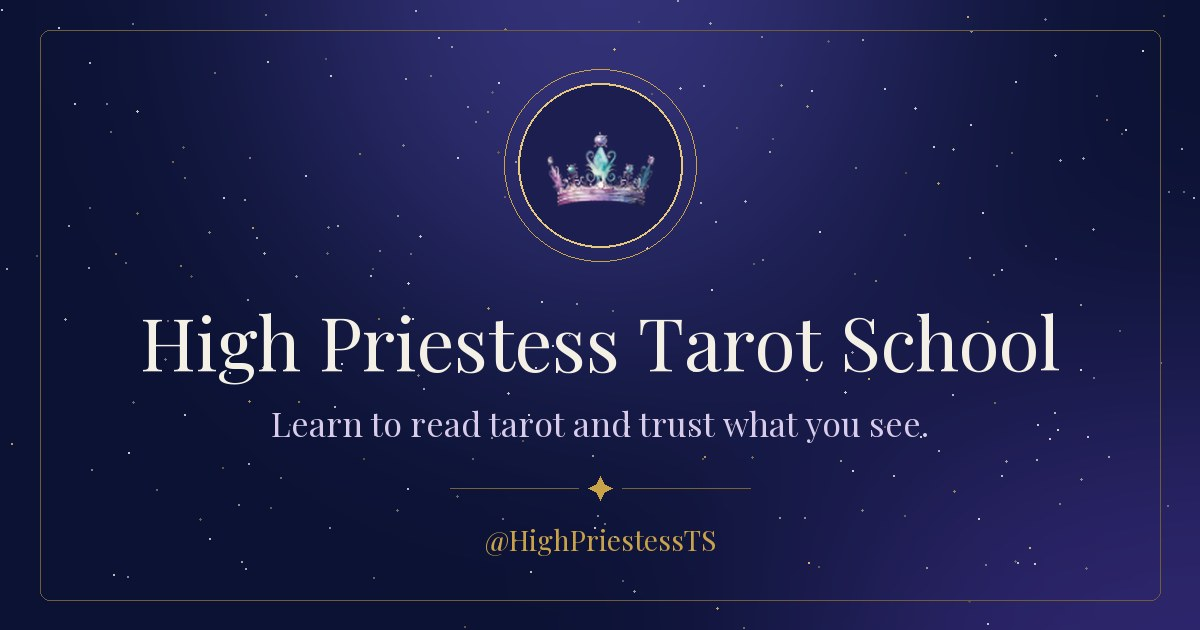
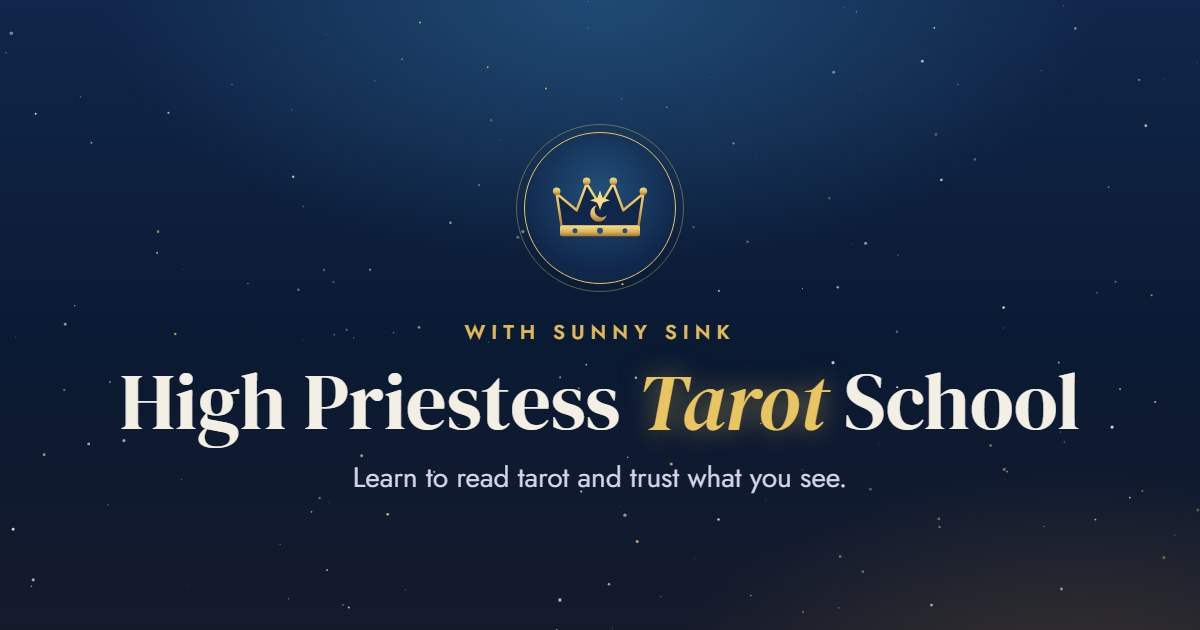
HPTS link-in-bio: reskin to the new HPTS board

Changed region(s): [[0.0925, 0.0905, 1.0, 1.0], [0.0308, 0.0302, 0.9867, 0.1508]]

diff --git a/hpts/index.html b/hpts/index.html
@@ -5,7 +5,7 @@
 <meta name="viewport" content="width=device-width, initial-scale=1, viewport-fit=cover">
 <title>High Priestess Tarot School</title>
 <meta name="description" content="High Priestess Tarot School links: join the school, the free Tarot Card of the Day, the free 2027 Tarot Planner, Power Pairs, the bonus courses and the Etsy shop.">
-<meta name="theme-color" content="#0B1233">
+<meta name="theme-color" content="#0A1A33">
 <meta property="og:type" content="website">
 <meta property="og:site_name" content="High Priestess Tarot School">
 <meta property="og:title" content="High Priestess Tarot School">
@@ -21,16 +21,16 @@
 <meta name="twitter:image" content="https://links.sunnysink.com/hpts/preview.jpg">
 <link rel="preconnect" href="https://fonts.googleapis.com">
 <link rel="preconnect" href="https://fonts.gstatic.com" crossorigin>
-<link rel="stylesheet" href="https://fonts.googleapis.com/css2?family=Cormorant+Garamond:ital,wght@0,500;0,600;1,500;1,600&family=Mulish:wght@400;600&display=swap">
+<link rel="stylesheet" href="https://fonts.googleapis.com/css2?family=DM+Serif+Display:ital@0;1&family=Jost:wght@300;400;500;600&display=swap">
 <style>
-/* Layout: one column under a moonlit arch. Midnight sky, gold hairlines, one parchment card for the main door, italic lilac on the word that matters (HPTS brand board) */
+/* Layout: one column under a moonlit arch. Navy night sky, gold hairlines, one cream card for the main door, one glowing italic honey word (HPTS brand board 2026-10-21) */
 :root{
-  --midnight:#0B1233; --navy:#141A47; --indigo:#2A2160; --violet:#4B2F7A;
-  --cream:#F5F0E6; --parchment:#EADFCC;
-  --lavender:#D9CCEB; --lilac:#A68ED6; --powder:#A9BEDD;
-  --gold:#C9A24A; --gold-lt:#E6C77E; --gold-line:rgba(201,162,74,.42);
-  --display:'Cormorant Garamond',Georgia,'Times New Roman',serif;
-  --body:'Mulish',system-ui,-apple-system,'Segoe UI',sans-serif;
+  --midnight:#0A1A33; --navy:#10264A; --indigo:#22507A; --violet:#22507A;
+  --cream:#F3EFE4; --parchment:#E9E1CF;
+  --lavender:#D6D4E8; --lilac:#E9C462; --powder:#9FB2D3;
+  --gold:#C29443; --gold-lt:#E9C462; --gold-line:rgba(233,196,98,.4);
+  --display:'DM Serif Display','Bodoni Moda',Didot,Georgia,serif;
+  --body:'Jost','Futura',system-ui,-apple-system,'Segoe UI',sans-serif;
   color-scheme:dark;
 }
 *{margin:0;padding:0;box-sizing:border-box}
@@ -42,15 +42,15 @@ body{
   display:flex; flex-direction:column; align-items:center;
   overflow-x:hidden; position:relative;
 }
-/* sky: violet haze high, powder-blue low, vignette */
+/* sky: sea-blue glow high, a little candle-gold low, vignette (HPTS board 2026-10-21) */
 body::before{
   content:''; position:fixed; inset:0; z-index:-2;
   background:
-    radial-gradient(60% 34% at 50% 10%, rgba(166,142,214,.20), transparent 70%),
-    radial-gradient(70% 50% at 90% 100%, rgba(75,47,122,.55), transparent 70%),
-    radial-gradient(55% 40% at 5% 92%, rgba(169,190,221,.12), transparent 72%),
-    radial-gradient(120% 90% at 50% 50%, transparent 55%, rgba(5,8,26,.7) 100%),
-    linear-gradient(180deg,#0E1540 0%,#0B1233 50%,#090E2A 100%);
+    radial-gradient(70% 40% at 50% 6%, rgba(34,80,122,.7), transparent 70%),
+    radial-gradient(70% 50% at 90% 100%, rgba(194,148,67,.16), transparent 70%),
+    radial-gradient(55% 40% at 5% 92%, rgba(34,80,122,.35), transparent 72%),
+    radial-gradient(120% 90% at 50% 50%, transparent 55%, rgba(4,12,26,.7) 100%),
+    linear-gradient(180deg,#10264A 0%,#0A1A33 50%,#151A2B 100%);
 }
 #stars{position:fixed; inset:0; z-index:-1; width:100%; height:100%; pointer-events:none}
 
@@ -59,12 +59,12 @@ body::before{
   position:fixed; z-index:0; pointer-events:none;
   left:50%; top:max(14px, env(safe-area-inset-top)); bottom:14px;
   width:min(calc(100% - 28px), 500px); transform:translateX(-50%);
-  border:1px solid rgba(201,162,74,.28);
+  border:1px solid rgba(233,196,98,.26);
   border-radius:250px 250px 6px 6px;
 }
 .arch::after{
   content:''; position:absolute; inset:6px;
-  border:1px solid rgba(201,162,74,.13);
+  border:1px solid rgba(233,196,98,.12);
   border-radius:244px 244px 3px 3px;
 }
 .moon{
@@ -90,14 +90,14 @@ main{
   width:124px; height:124px; border-radius:50%;
   border:1px solid var(--gold-lt);
   outline:1px solid var(--gold-line); outline-offset:5px;
-  box-shadow:0 10px 34px rgba(5,8,26,.6), 0 0 28px rgba(166,142,214,.18);
+  box-shadow:0 10px 34px rgba(4,12,26,.6), 0 0 28px rgba(233,196,98,.18);
   object-fit:cover; display:block;
 }
 .ph{
   background:radial-gradient(circle at 50% 38%, var(--indigo), var(--navy) 70%);
   display:grid; place-items:center; color:var(--gold-lt);
 }
-.ph .crown{width:84px; height:auto; display:block; margin-top:4px; filter:drop-shadow(0 0 12px rgba(166,142,214,.45)) drop-shadow(0 2px 4px rgba(5,8,26,.5))}
+.ph .crown{width:84px; height:auto; display:block; margin-top:4px; filter:drop-shadow(0 0 12px rgba(233,196,98,.35)) drop-shadow(0 2px 4px rgba(4,12,26,.5))}
 
 .eyebrow{
   margin-top:30px;
@@ -106,11 +106,11 @@ main{
   padding-left:.32em;
 }
 h1{
-  font-family:var(--display); font-weight:500;
-  font-size:clamp(2.3rem,10.5vw,2.9rem); line-height:1.02;
+  font-family:var(--display); font-weight:400;
+  font-size:clamp(2.3rem,10.5vw,2.9rem); line-height:1.06;
   margin-top:10px; color:var(--cream); text-wrap:balance;
 }
-h1 em,.line em{font-style:italic; color:var(--lilac)}
+h1 em,.line em{font-style:italic; color:var(--lilac); text-shadow:0 0 20px rgba(233,196,98,.45)}
 .line{
   font-family:var(--display); font-size:clamp(1.12rem,4.8vw,1.26rem);
   line-height:1.45; color:var(--lavender); margin-top:12px; text-wrap:balance;
@@ -124,21 +124,21 @@ nav{width:100%; margin-top:20px; display:flex; flex-direction:column; gap:14px}
 .card{
   display:flex; align-items:center; justify-content:space-between; gap:14px;
   width:100%; min-height:64px; padding:12px 18px 13px;
-  background:linear-gradient(160deg, rgba(42,33,96,.62), rgba(20,26,71,.78) 65%);
+  background:linear-gradient(160deg, rgba(34,80,122,.5), rgba(16,38,74,.82) 65%);
   border:1px solid var(--gold-line); border-radius:12px;
-  box-shadow:0 14px 30px rgba(5,8,26,.5), inset 0 1px 0 rgba(245,240,230,.06);
+  box-shadow:0 14px 30px rgba(4,12,26,.5), inset 0 1px 0 rgba(245,240,230,.06);
   text-decoration:none; position:relative;
   -webkit-backdrop-filter:blur(3px); backdrop-filter:blur(3px);
   transition:transform .22s ease, border-color .22s ease, box-shadow .22s ease;
 }
 .card .l{display:flex; flex-direction:column; gap:2px; text-align:left; min-width:0}
-.card .t{font-family:var(--display); font-weight:600; font-size:1.26rem; line-height:1.15; color:var(--cream)}
+.card .t{font-family:var(--display); font-weight:400; font-size:1.26rem; line-height:1.15; color:var(--cream)}
 .card .s{font-size:.84rem; line-height:1.4; color:var(--powder)}
 .card .m{flex:none; color:var(--gold); transition:transform .4s ease}
 .card .m svg{width:16px; height:16px; display:block}
 .card:hover,.card:focus-visible{
-  transform:translateY(-2px); border-color:rgba(230,199,126,.85);
-  box-shadow:0 18px 36px rgba(5,8,26,.55), 0 0 24px rgba(166,142,214,.2), inset 0 1px 0 rgba(245,240,230,.09);
+  transform:translateY(-2px); border-color:rgba(233,196,98,.85);
+  box-shadow:0 18px 36px rgba(4,12,26,.55), 0 0 24px rgba(233,196,98,.2), inset 0 1px 0 rgba(245,240,230,.09);
 }
 .card:hover .m,.card:focus-visible .m{transform:rotate(72deg)}
 .card:focus-visible{outline:2px solid var(--gold-lt); outline-offset:3px}
@@ -148,18 +148,18 @@ nav{width:100%; margin-top:20px; display:flex; flex-direction:column; gap:14px}
 .card.main{
   min-height:76px;
   background:
-    radial-gradient(120% 140% at 100% 0%, rgba(217,204,235,.75), transparent 60%),
+    radial-gradient(120% 140% at 100% 0%, rgba(233,196,98,.28), transparent 60%),
     linear-gradient(160deg,var(--cream),var(--parchment));
   border-color:var(--gold);
-  box-shadow:0 14px 34px rgba(5,8,26,.55), 0 0 0 4px rgba(201,162,74,.14);
+  box-shadow:0 14px 34px rgba(4,12,26,.55), 0 0 0 4px rgba(233,196,98,.14);
 }
 .card.main .t{color:var(--midnight); font-size:1.42rem}
 .card.main .t em{font-style:italic; color:var(--violet)}
-.card.main .s{color:#4A4568; font-weight:600}
+.card.main .s{color:#3D4357; font-weight:500}
 .card.main .m{color:var(--violet)}
 .card.main::after{
   content:''; position:absolute; inset:-1px; border-radius:13px; pointer-events:none;
-  box-shadow:0 0 30px rgba(230,199,126,.4); opacity:.4;
+  box-shadow:0 0 30px rgba(233,196,98,.4); opacity:.4;
   animation:glow 5s ease-in-out 1s infinite alternate;
 }
 @keyframes glow{from{opacity:.25}to{opacity:.9}}
@@ -221,7 +221,15 @@ footer{
       <circle cx="97" cy="97" r="86" stroke="currentColor" stroke-width=".5" opacity=".6"/>
       <path d="M97 0l2 7-2 4-2-4z M97 194l2-7-2-4-2 4z M0 97l7 2 4-2-4-2z M194 97l-7 2-4-2 4-2z" fill="currentColor"/>
     </svg>
[1 lines of base64/hex data omitted]
+    <div class="ph"><svg class="crown" viewBox="0 0 120 86" aria-label="High Priestess Tarot School crown" role="img">
+      <defs><linearGradient id="g" x1="0" y1="0" x2="0" y2="1"><stop offset="0" stop-color="#F6DC8C"/><stop offset=".55" stop-color="#E2B95A"/><stop offset="1" stop-color="#A9782F"/></linearGradient></defs>
+      <path d="M14 66 L8 26 L32 46 L44 14 L60 40 L76 14 L88 46 L112 26 L106 66 Z" fill="#10264A" stroke="url(#g)" stroke-width="3" stroke-linejoin="round"/>
+      <rect x="12" y="64" width="96" height="13" rx="3" fill="url(#g)"/>
+      <circle cx="8" cy="23" r="4.5" fill="url(#g)"/><circle cx="44" cy="11" r="4.5" fill="url(#g)"/><circle cx="76" cy="11" r="4.5" fill="url(#g)"/><circle cx="112" cy="23" r="4.5" fill="url(#g)"/>
+      <path d="M60 22 l3 9 l9 3 l-9 3 l-3 9 l-3 -9 l-9 -3 l9 -3 Z" fill="#F6DC8C"/>
+      <path d="M68 52 a10 10 0 1 1 -12 -12 a8 8 0 1 0 12 12 Z" fill="url(#g)"/>
+      <circle cx="30" cy="70.5" r="3" fill="#22507A"/><circle cx="60" cy="70.5" r="3.6" fill="#22507A"/><circle cx="90" cy="70.5" r="3" fill="#22507A"/>
+    </svg></div>
   </div>
 
   <p class="eyebrow up d2">With Sunny Sink</p>
@@ -305,7 +313,7 @@ footer{
     x.clearRect(0,0,w,h);
     for(var i=0;i<stars.length;i++){
       var s=stars[i], a=still?.7:.35+.55*(.5+.5*Math.sin(s.p+t*.001*s.s));
-      x.globalAlpha=a; x.fillStyle=s.g?'#E6C77E':'#EAE7F4';
+      x.globalAlpha=a; x.fillStyle=s.g?'#E9C462':'#F3EFE4';
       x.beginPath(); x.arc(s.x,s.y,s.r,0,6.28); x.fill();
     }
     if(!still) requestAnimationFrame(draw);
